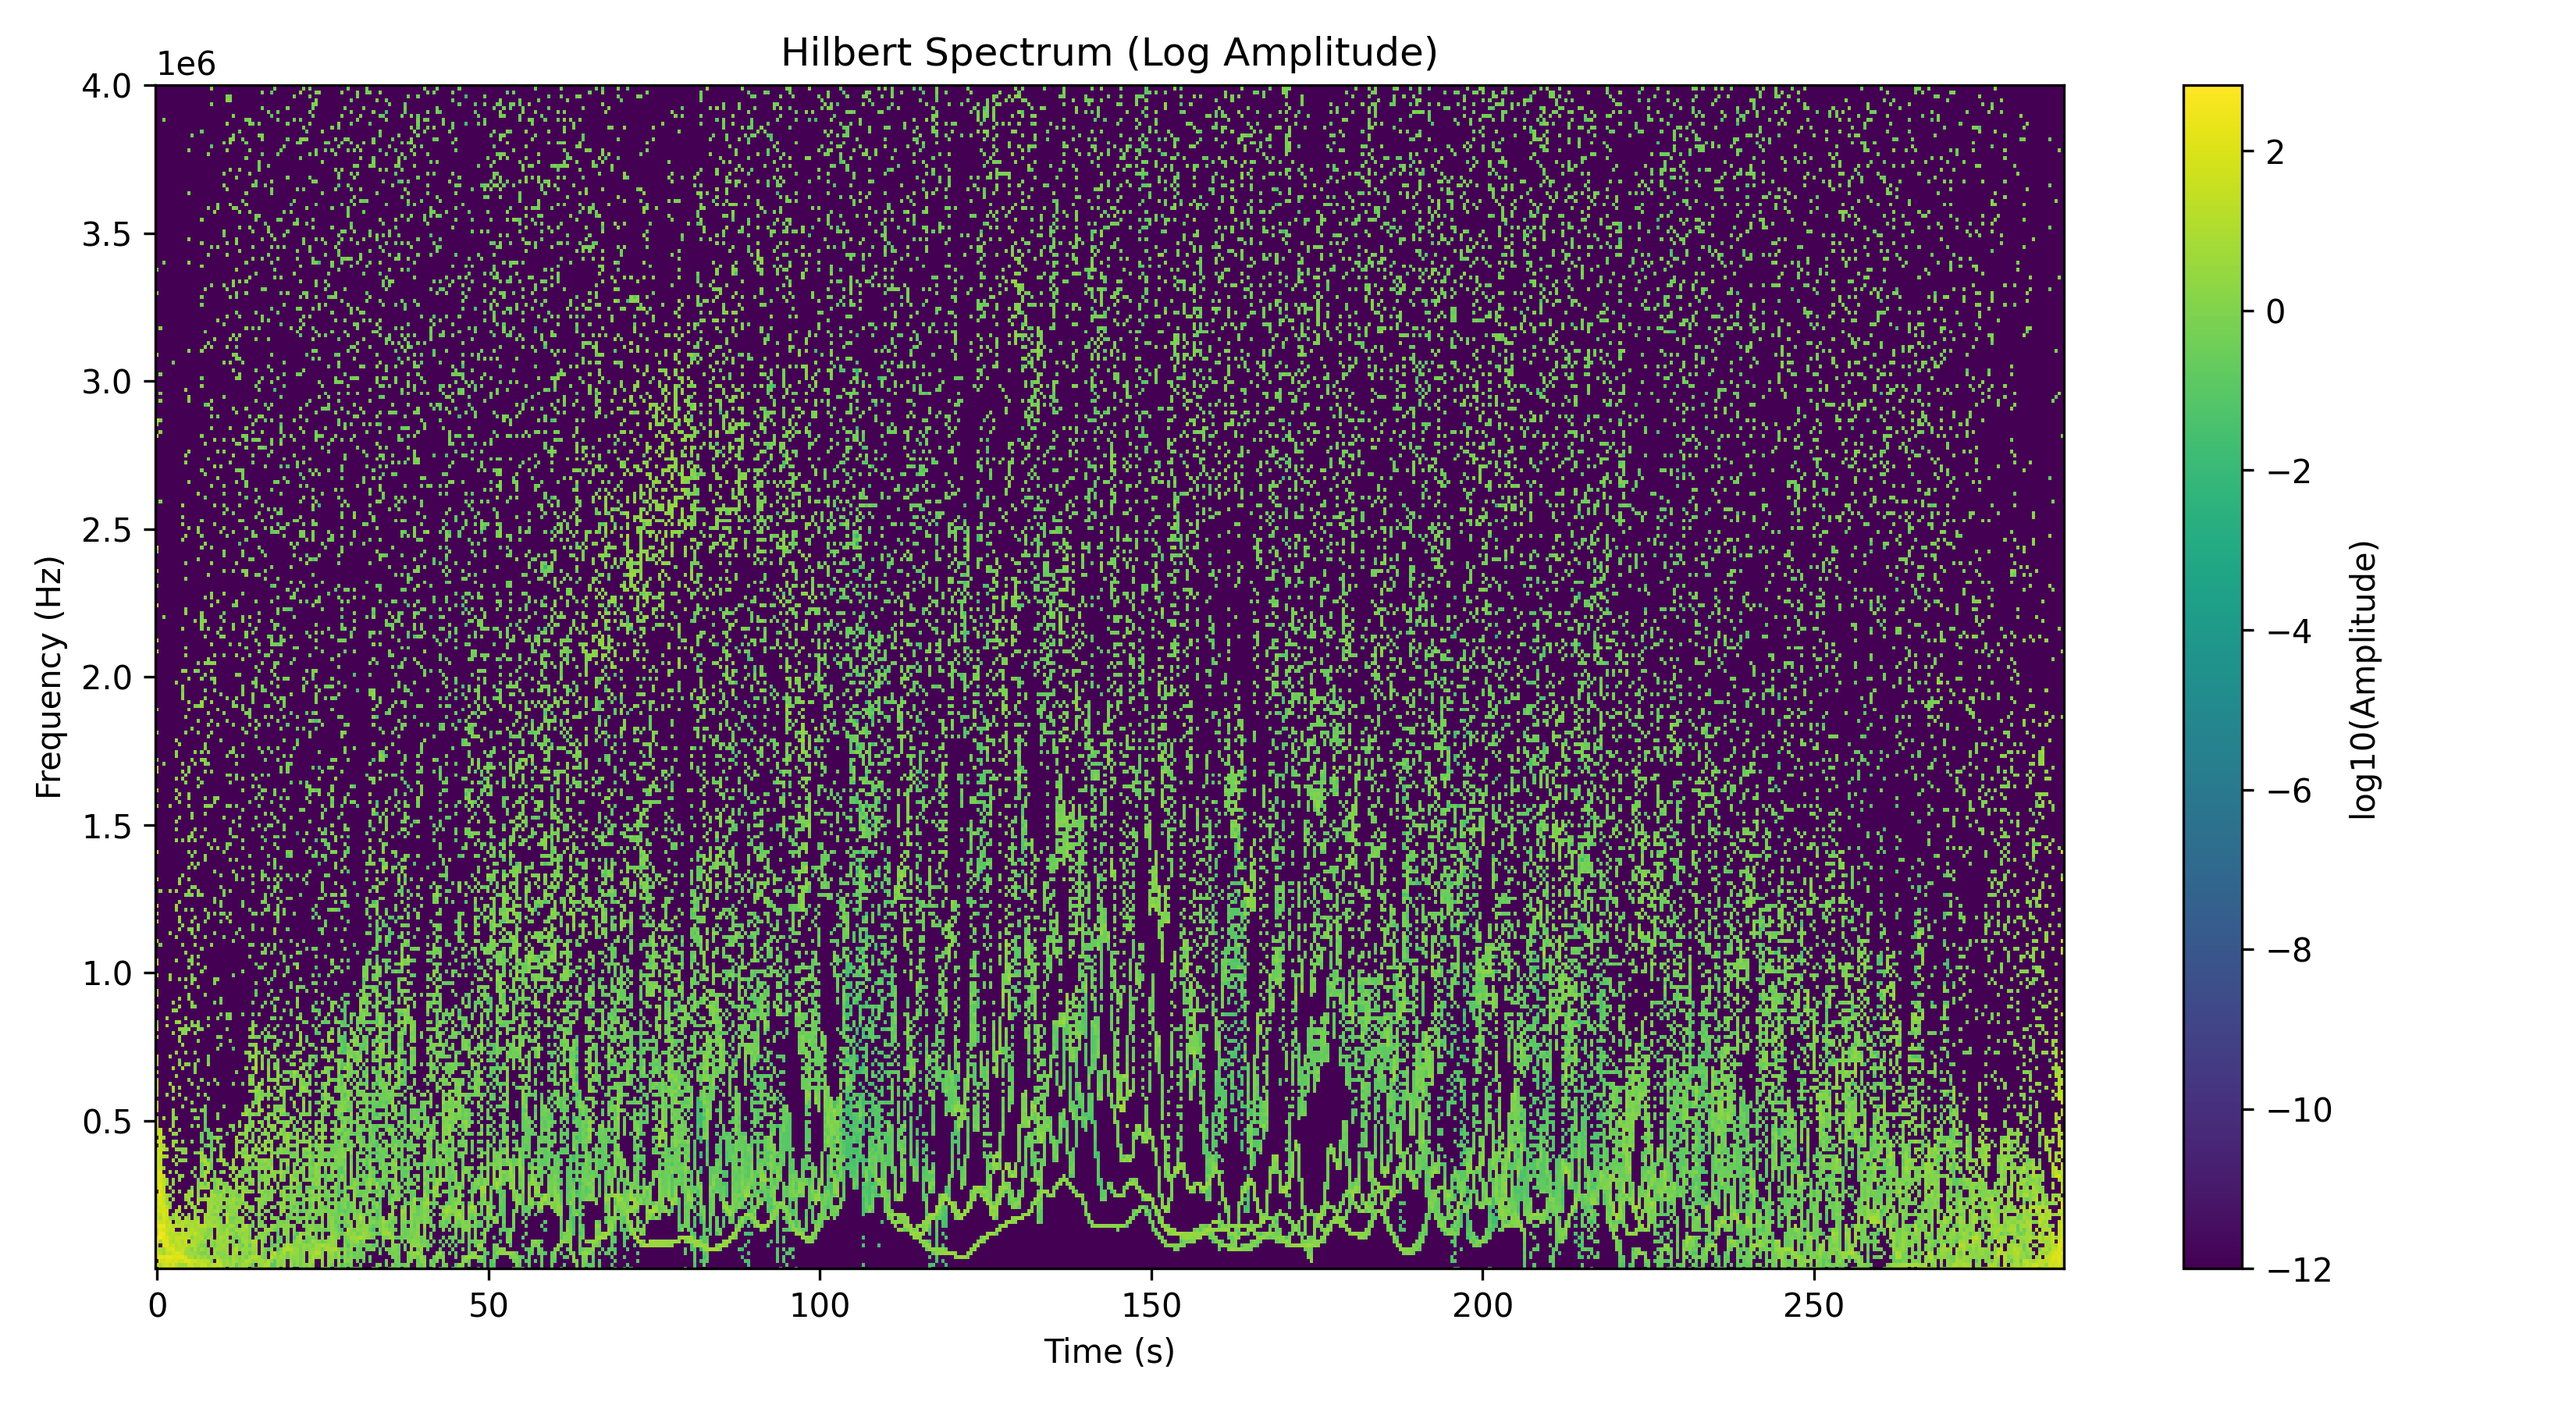
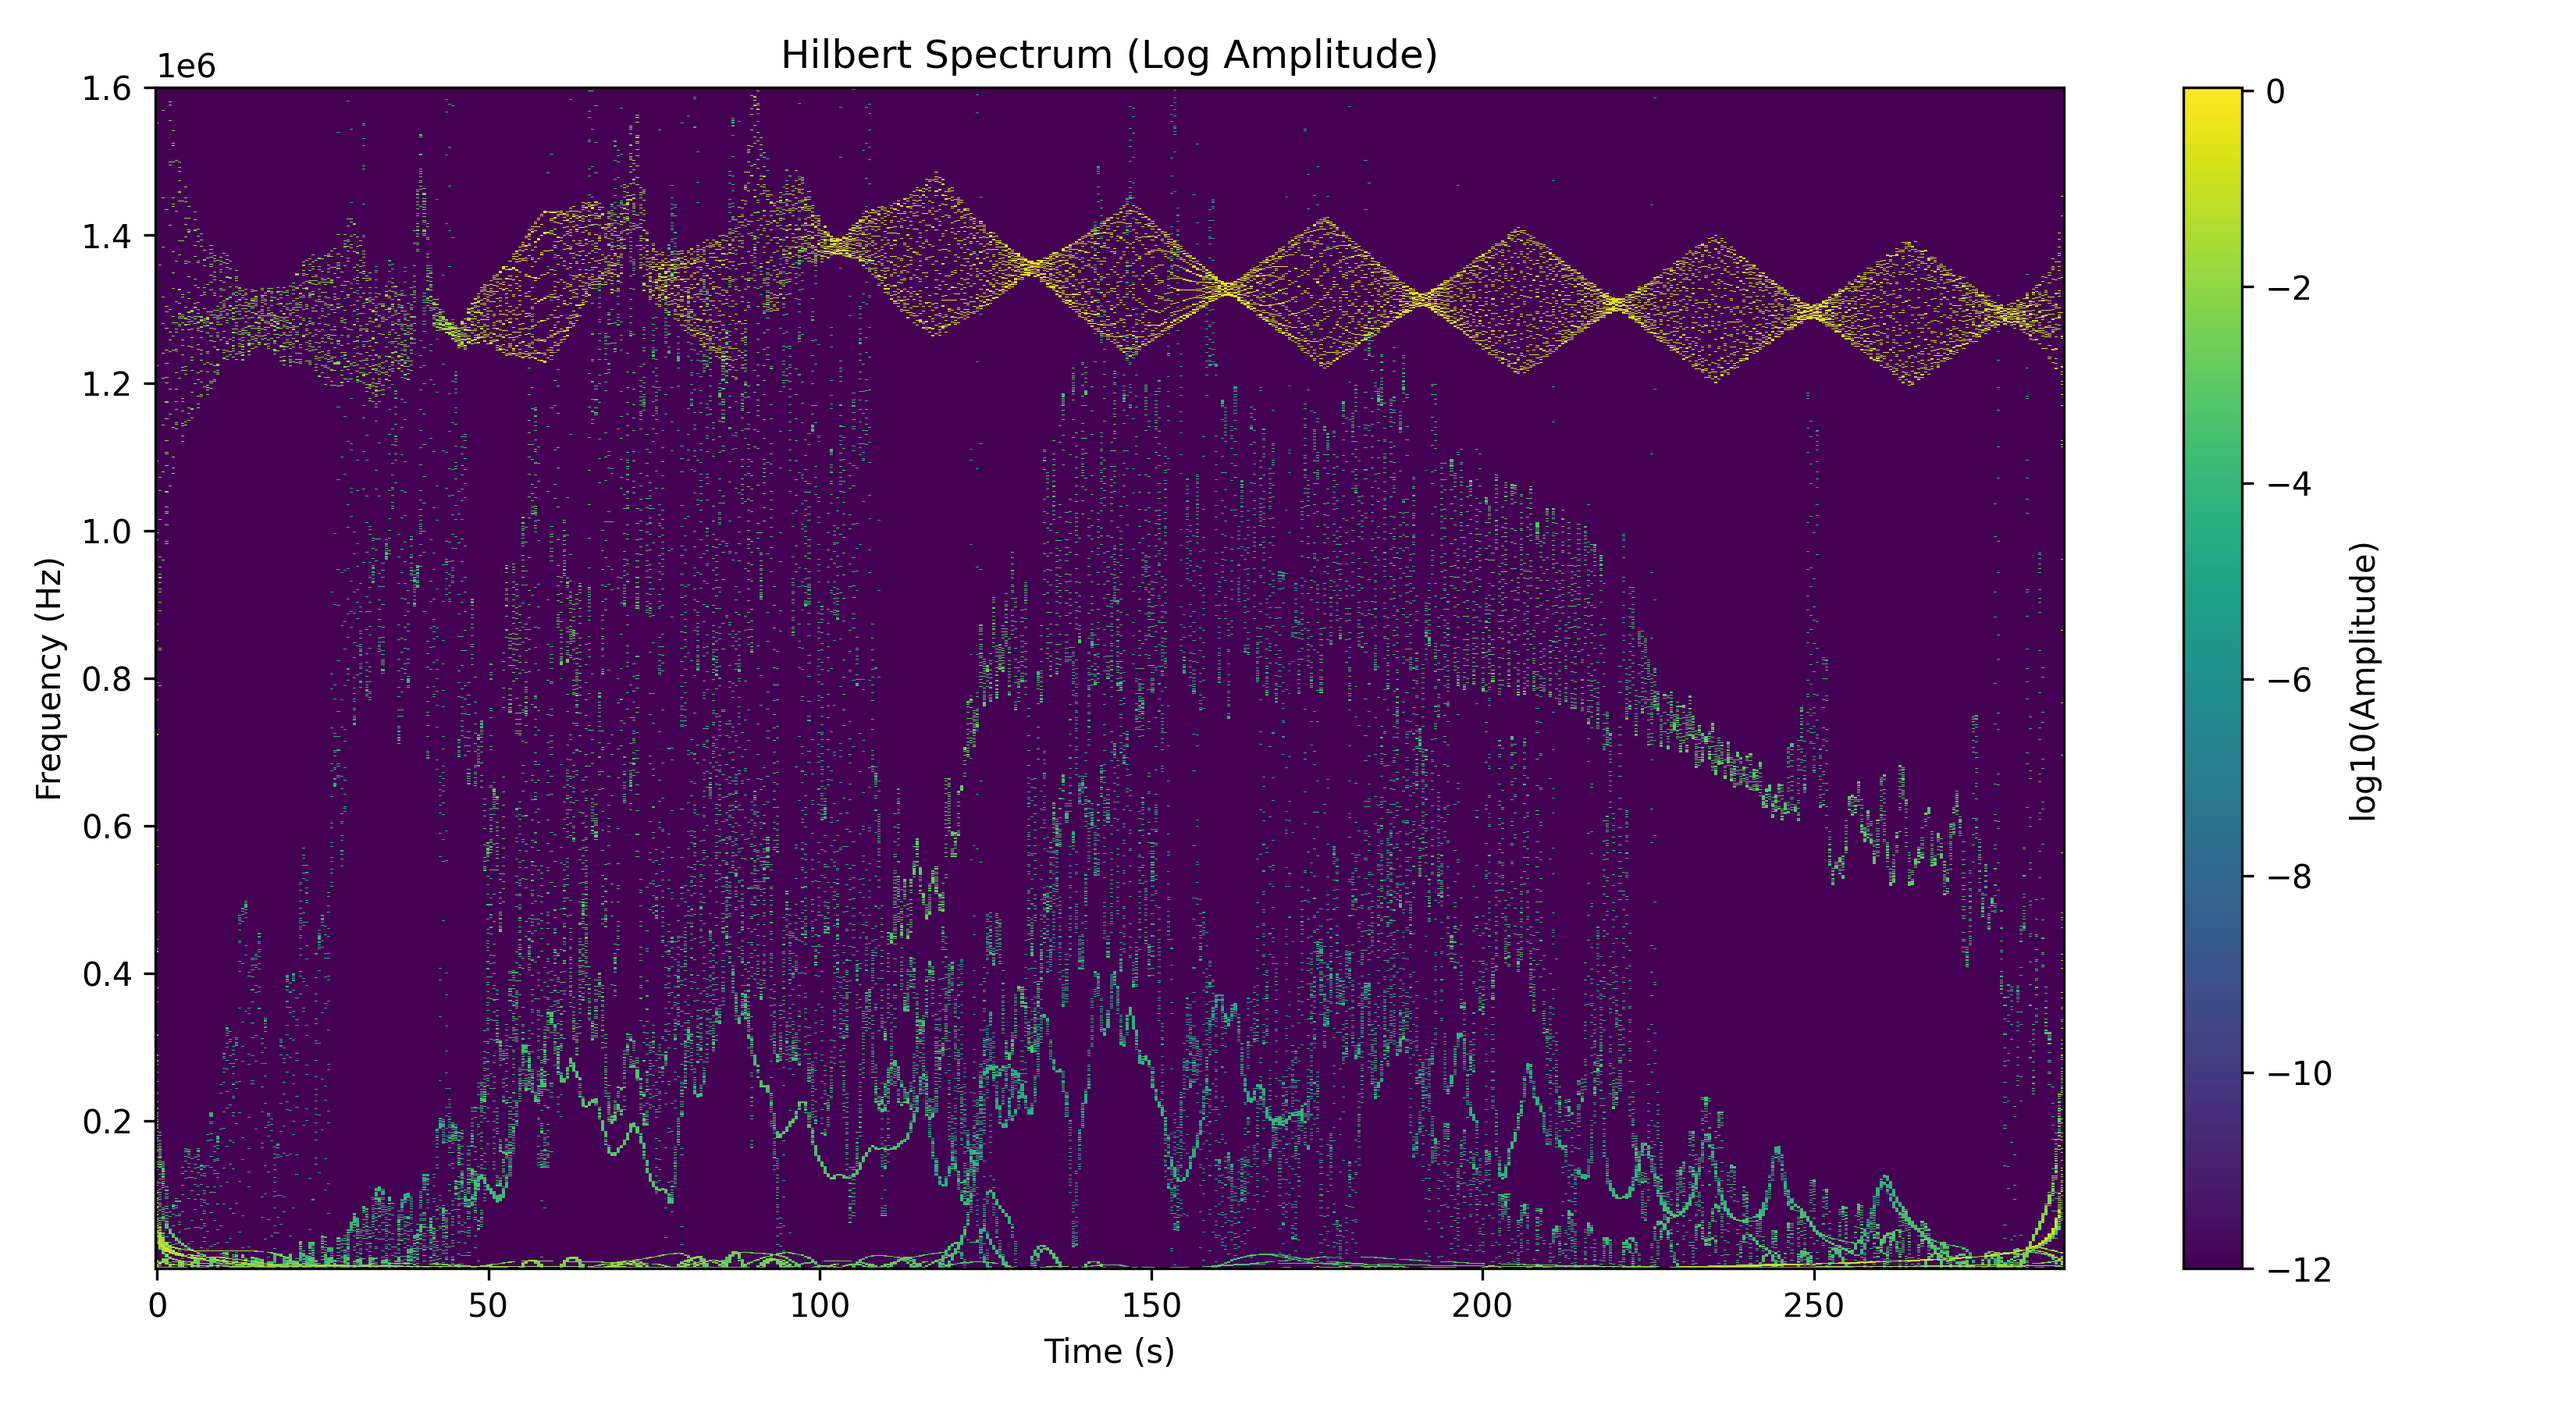
bhhb

diff --git a/Energy_conserv.py b/Energy_conserv.py
@@ -51,8 +51,8 @@ modes_base = ["S2 Propagated signal (nm)", "A1 Propagated signal (nm)",
 
 noise_level = 1.5
  #Noise Level: 0 == 0%, 1.5 == 150%, should not be larger than 1.5
-beta = 6 #Non_Linearity Parameter: Realistic Range 6-12
-
+beta =10 #Non_Linearity Parameter: Realistic Range 6-12
+distance = 0.2
 
 # Modes around which the beta parameter is taken, copy-paste from lists above
 A1_mode = "S2 Propagated signal (nm)" # Mode of base harmonic
@@ -95,9 +95,9 @@ band_max_harmonic = 2900000
 data_harmonic = preprocess.get_data(dataset_harmonic)
 data_base = preprocess.get_data(dataset_base)
 
-t, signal, data_used1 = preprocess.create_signal(data_base, data_harmonic, beta, noise_level, "S2 Propagated signal (nm)", "S4 Propagated signal (nm)", modes_base, modes_harmonic )
+t, signal, data_used1 = preprocess.create_signal(data_base, data_harmonic, beta, noise_level, "S2 Propagated signal (nm)", "S4 Propagated signal (nm)", modes_base, modes_harmonic, distance )
 
-t2, signal2, data_used2 = preprocess.create_signal(data_base, data_harmonic, beta, 0, "S2 Propagated signal (nm)", "S4 Propagated signal (nm)", modes_base, modes_harmonic )
+t2, signal2, data_used2 = preprocess.create_signal(data_base, data_harmonic, beta, 0, "S2 Propagated signal (nm)", "S4 Propagated signal (nm)", modes_base, modes_harmonic, distance )
 
 
 dt = np.mean(np.diff(t))
@@ -290,7 +290,9 @@ error_HHT = []
 error_STFT = []
 error_wavelet = []
 
-noise_levels = [0, 0.25, 0.5, 0.75, 1.0, 1.25, 1.5]
+step = 0.1
+noise_levels = np.arange(0, 1.50 + step, step)
+
 
 for noise in noise_levels:
 
@@ -303,7 +305,8 @@ for noise in noise_levels:
         "S2 Propagated signal (nm)",
         "S4 Propagated signal (nm)",
         modes_base,
-        modes_harmonic
+        modes_harmonic,
+        distance
     )
 
     # STFT reconstruction
@@ -336,7 +339,8 @@ for noise in noise_levels:
         "S2 Propagated signal (nm)",
         "S4 Propagated signal (nm)",
         modes_base,
-        modes_harmonic
+        modes_harmonic,
+        distance
     )
 
     # HHT reconstruction
@@ -372,7 +376,8 @@ for noise in noise_levels:
         "S2 Propagated signal (nm)",
         "S4 Propagated signal (nm)",
         modes_base,
-        modes_harmonic
+        modes_harmonic,
+        distance
     )
 
     # Wavelet reconstruction
@@ -384,7 +389,7 @@ for noise in noise_levels:
     # Normalized reconstruction error
     error = np.sum(np.abs((recon_wavelet)**2 - (signal2) ** 2)) / np.sum(signal2   ** 2)
     error_WT.append(error)
-    
+
     # Plot wavelet
 plt.plot(noise_levels, error_WT, marker='o')
 plt.xlabel("Noise Level", fontsize=18)
